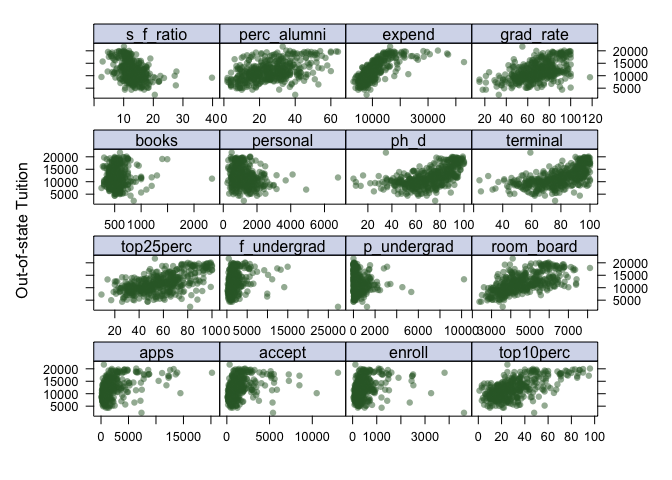
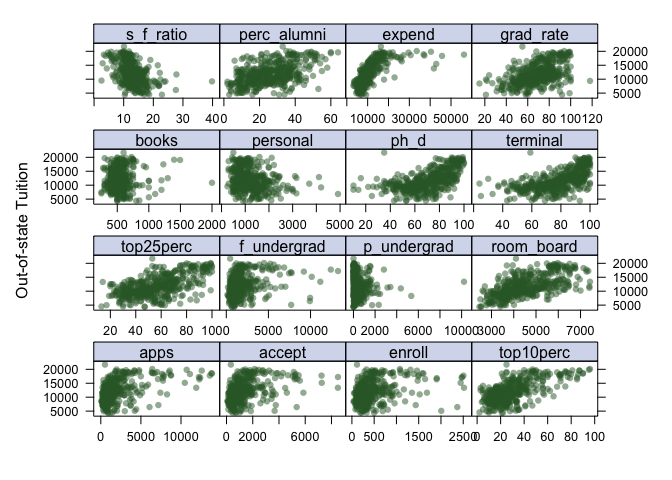
smoothing splines

diff --git a/ds2_hw2.md b/ds2_hw2.md
@@ -53,41 +53,34 @@ dim(train_df)
 summary(train_df)
 ```
 
-    ##     outstate          apps           accept          enroll      
-    ##  Min.   : 2340   Min.   :   81   Min.   :   72   Min.   :  35.0  
-    ##  1st Qu.: 9100   1st Qu.:  626   1st Qu.:  501   1st Qu.: 203.0  
-    ##  Median :11200   Median : 1109   Median :  837   Median : 321.0  
-    ##  Mean   :11807   Mean   : 1951   Mean   : 1289   Mean   : 449.6  
-    ##  3rd Qu.:13970   3rd Qu.: 2135   3rd Qu.: 1541   3rd Qu.: 509.0  
-    ##  Max.   :21700   Max.   :20192   Max.   :13007   Max.   :4615.0  
-    ##    top10perc       top25perc       f_undergrad     p_undergrad     
-    ##  Min.   : 1.00   Min.   :  9.00   Min.   :  139   Min.   :    1.0  
-    ##  1st Qu.:17.00   1st Qu.: 43.00   1st Qu.:  809   1st Qu.:   66.0  
-    ##  Median :25.00   Median : 55.00   Median : 1270   Median :  211.0  
-    ##  Mean   :29.37   Mean   : 57.02   Mean   : 1855   Mean   :  448.9  
-    ##  3rd Qu.:36.00   3rd Qu.: 70.00   3rd Qu.: 1964   3rd Qu.:  542.0  
-    ##  Max.   :96.00   Max.   :100.00   Max.   :27378   Max.   :10221.0  
-    ##    room_board       books           personal         ph_d       
-    ##  Min.   :2370   Min.   : 250.0   Min.   : 250   Min.   :  8.00  
-    ##  1st Qu.:3700   1st Qu.: 450.0   1st Qu.: 800   1st Qu.: 59.00  
-    ##  Median :4372   Median : 500.0   Median :1090   Median : 73.00  
-    ##  Mean   :4588   Mean   : 546.1   Mean   :1211   Mean   : 70.74  
-    ##  3rd Qu.:5400   3rd Qu.: 600.0   3rd Qu.:1500   3rd Qu.: 85.00  
-    ##  Max.   :8124   Max.   :2340.0   Max.   :6800   Max.   :100.00  
-    ##     terminal        s_f_ratio      perc_alumni       expend     
-    ##  Min.   : 24.00   Min.   : 2.50   Min.   : 2.0   Min.   : 3186  
-    ##  1st Qu.: 68.00   1st Qu.:11.10   1st Qu.:16.0   1st Qu.: 7495  
-    ##  Median : 80.00   Median :12.60   Median :25.0   Median : 8990  
-    ##  Mean   : 78.42   Mean   :12.86   Mean   :25.9   Mean   :10384  
-    ##  3rd Qu.: 92.00   3rd Qu.:14.40   3rd Qu.:34.0   3rd Qu.:11525  
-    ##  Max.   :100.00   Max.   :39.80   Max.   :64.0   Max.   :42926  
-    ##    grad_rate     
-    ##  Min.   : 15.00  
-    ##  1st Qu.: 58.00  
-    ##  Median : 69.00  
-    ##  Mean   : 68.62  
-    ##  3rd Qu.: 81.00  
-    ##  Max.   :118.00
+    ##     outstate          apps           accept         enroll       top10perc 
+    ##  Min.   : 4400   Min.   :   81   Min.   :  72   Min.   :  35   Min.   : 2  
+    ##  1st Qu.: 9100   1st Qu.:  608   1st Qu.: 497   1st Qu.: 204   1st Qu.:16  
+    ##  Median :11200   Median : 1107   Median : 849   Median : 324   Median :25  
+    ##  Mean   :11830   Mean   : 1941   Mean   :1271   Mean   : 443   Mean   :29  
+    ##  3rd Qu.:13970   3rd Qu.: 2153   3rd Qu.:1553   3rd Qu.: 509   3rd Qu.:36  
+    ##  Max.   :21700   Max.   :13865   Max.   :8498   Max.   :2517   Max.   :96  
+    ##    top25perc      f_undergrad     p_undergrad        room_board  
+    ##  Min.   : 13.0   Min.   :  139   Min.   :    1.0   Min.   :2460  
+    ##  1st Qu.: 42.0   1st Qu.:  846   1st Qu.:   63.0   1st Qu.:3710  
+    ##  Median : 55.0   Median : 1241   Median :  211.0   Median :4400  
+    ##  Mean   : 56.5   Mean   : 1821   Mean   :  428.7   Mean   :4567  
+    ##  3rd Qu.: 69.0   3rd Qu.: 1988   3rd Qu.:  526.0   3rd Qu.:5400  
+    ##  Max.   :100.0   Max.   :13259   Max.   :10221.0   Max.   :7425  
+    ##      books           personal         ph_d           terminal     
+    ##  Min.   : 250.0   Min.   : 250   Min.   : 10.00   Min.   : 24.00  
+    ##  1st Qu.: 450.0   1st Qu.: 800   1st Qu.: 60.00   1st Qu.: 68.00  
+    ##  Median : 500.0   Median :1100   Median : 73.00   Median : 80.00  
+    ##  Mean   : 543.4   Mean   :1221   Mean   : 70.74   Mean   : 78.26  
+    ##  3rd Qu.: 600.0   3rd Qu.:1500   3rd Qu.: 85.00   3rd Qu.: 92.00  
+    ##  Max.   :2000.0   Max.   :4913   Max.   :100.00   Max.   :100.00  
+    ##    s_f_ratio      perc_alumni        expend        grad_rate     
+    ##  Min.   : 2.50   Min.   : 2.00   Min.   : 3186   Min.   : 15.00  
+    ##  1st Qu.:11.10   1st Qu.:16.00   1st Qu.: 7356   1st Qu.: 58.00  
+    ##  Median :12.70   Median :25.00   Median : 8953   Median : 69.00  
+    ##  Mean   :12.93   Mean   :25.83   Mean   :10590   Mean   : 68.67  
+    ##  3rd Qu.:14.50   3rd Qu.:34.00   3rd Qu.:11677   3rd Qu.: 81.00  
+    ##  Max.   :39.80   Max.   :64.00   Max.   :56233   Max.   :118.00
 
 ``` r
 skimr::skim(train_df)
@@ -110,23 +103,23 @@ Data summary
 
 | skim_variable | n_missing | complete_rate |     mean |      sd |     p0 |    p25 |     p50 |     p75 |    p100 | hist  |
 |:--------------|----------:|--------------:|---------:|--------:|-------:|-------:|--------:|--------:|--------:|:------|
-| outstate      |         0 |             1 | 11807.10 | 3693.06 | 2340.0 | 9100.0 | 11200.0 | 13970.0 | 21700.0 | ▁▆▇▃▂ |
-| apps          |         0 |             1 |  1951.45 | 2485.30 |   81.0 |  626.0 |  1109.0 |  2135.0 | 20192.0 | ▇▁▁▁▁ |
-| accept        |         0 |             1 |  1289.30 | 1419.08 |   72.0 |  501.0 |   837.0 |  1541.0 | 13007.0 | ▇▁▁▁▁ |
-| enroll        |         0 |             1 |   449.55 |  471.76 |   35.0 |  203.0 |   321.0 |   509.0 |  4615.0 | ▇▁▁▁▁ |
-| top10perc     |         0 |             1 |    29.37 |   17.95 |    1.0 |   17.0 |    25.0 |    36.0 |    96.0 | ▇▇▃▁▁ |
-| top25perc     |         0 |             1 |    57.02 |   19.64 |    9.0 |   43.0 |    55.0 |    70.0 |   100.0 | ▁▆▇▆▃ |
-| f_undergrad   |         0 |             1 |  1854.64 | 2214.61 |  139.0 |  809.0 |  1270.0 |  1964.0 | 27378.0 | ▇▁▁▁▁ |
-| p_undergrad   |         0 |             1 |   448.94 |  756.33 |    1.0 |   66.0 |   211.0 |   542.0 | 10221.0 | ▇▁▁▁▁ |
-| room_board    |         0 |             1 |  4587.81 | 1102.11 | 2370.0 | 3700.0 |  4372.0 |  5400.0 |  8124.0 | ▃▇▅▃▁ |
-| books         |         0 |             1 |   546.11 |  171.71 |  250.0 |  450.0 |   500.0 |   600.0 |  2340.0 | ▇▁▁▁▁ |
-| personal      |         0 |             1 |  1211.32 |  639.95 |  250.0 |  800.0 |  1090.0 |  1500.0 |  6800.0 | ▇▂▁▁▁ |
-| ph_d          |         0 |             1 |    70.74 |   17.78 |    8.0 |   59.0 |    73.0 |    85.0 |   100.0 | ▁▁▆▇▇ |
-| terminal      |         0 |             1 |    78.42 |   15.66 |   24.0 |   68.0 |    80.0 |    92.0 |   100.0 | ▁▁▃▆▇ |
-| s_f\_ratio    |         0 |             1 |    12.86 |    3.47 |    2.5 |   11.1 |    12.6 |    14.4 |    39.8 | ▁▇▁▁▁ |
-| perc_alumni   |         0 |             1 |    25.90 |   12.53 |    2.0 |   16.0 |    25.0 |    34.0 |    64.0 | ▅▇▇▂▁ |
-| expend        |         0 |             1 | 10383.65 | 5017.64 | 3186.0 | 7495.0 |  8990.0 | 11525.0 | 42926.0 | ▇▂▁▁▁ |
-| grad_rate     |         0 |             1 |    68.62 |   16.91 |   15.0 |   58.0 |    69.0 |    81.0 |   118.0 | ▁▃▇▆▁ |
+| outstate      |         0 |             1 | 11829.55 | 3725.90 | 4400.0 | 9100.0 | 11200.0 | 13970.0 | 21700.0 | ▃▇▆▃▂ |
+| apps          |         0 |             1 |  1941.43 | 2335.76 |   81.0 |  608.0 |  1107.0 |  2153.0 | 13865.0 | ▇▁▁▁▁ |
+| accept        |         0 |             1 |  1270.72 | 1247.65 |   72.0 |  497.0 |   849.0 |  1553.0 |  8498.0 | ▇▂▁▁▁ |
+| enroll        |         0 |             1 |   443.02 |  400.73 |   35.0 |  204.0 |   324.0 |   509.0 |  2517.0 | ▇▂▁▁▁ |
+| top10perc     |         0 |             1 |    29.00 |   17.97 |    2.0 |   16.0 |    25.0 |    36.0 |    96.0 | ▇▇▃▁▁ |
+| top25perc     |         0 |             1 |    56.50 |   19.66 |   13.0 |   42.0 |    55.0 |    69.0 |   100.0 | ▂▆▇▅▃ |
+| f_undergrad   |         0 |             1 |  1821.20 | 1756.47 |  139.0 |  846.0 |  1241.0 |  1988.0 | 13259.0 | ▇▁▁▁▁ |
+| p_undergrad   |         0 |             1 |   428.73 |  739.30 |    1.0 |   63.0 |   211.0 |   526.0 | 10221.0 | ▇▁▁▁▁ |
+| room_board    |         0 |             1 |  4566.72 | 1089.86 | 2460.0 | 3710.0 |  4400.0 |  5400.0 |  7425.0 | ▃▇▅▃▁ |
+| books         |         0 |             1 |   543.41 |  165.01 |  250.0 |  450.0 |   500.0 |   600.0 |  2000.0 | ▇▂▁▁▁ |
+| personal      |         0 |             1 |  1220.52 |  608.20 |  250.0 |  800.0 |  1100.0 |  1500.0 |  4913.0 | ▇▅▁▁▁ |
+| ph_d          |         0 |             1 |    70.74 |   17.54 |   10.0 |   60.0 |    73.0 |    85.0 |   100.0 | ▁▂▅▇▆ |
+| terminal      |         0 |             1 |    78.26 |   15.77 |   24.0 |   68.0 |    80.0 |    92.0 |   100.0 | ▁▂▃▆▇ |
+| s_f\_ratio    |         0 |             1 |    12.93 |    3.59 |    2.5 |   11.1 |    12.7 |    14.5 |    39.8 | ▂▇▁▁▁ |
+| perc_alumni   |         0 |             1 |    25.83 |   12.31 |    2.0 |   16.0 |    25.0 |    34.0 |    64.0 | ▅▇▇▂▁ |
+| expend        |         0 |             1 | 10589.60 | 5987.11 | 3186.0 | 7356.0 |  8953.0 | 11677.0 | 56233.0 | ▇▂▁▁▁ |
+| grad_rate     |         0 |             1 |    68.67 |   16.52 |   15.0 |   58.0 |    69.0 |    81.0 |   118.0 | ▁▅▇▆▁ |
 
 There are 453 rows and 17 columns in training data, all the variables
 are numeric.
@@ -169,10 +162,10 @@ fit_ss = smooth.spline(x = train_df$terminal, y = train_df$outstate)
 fit_ss$df
 ```
 
-    ## [1] 4.244528
+    ## [1] 4.390602
 
 The optimal degree of freedom obtained by default cross validation is
-4.245.
+4.391.
 
 Use this **optimal degree of freedom** to make following predictions:
 
@@ -236,11 +229,11 @@ ss_func = function(df) {
                                    y = train_df$outstate,
                                    df = df)
   
-  pred_ss_fun = predict(fit_ss_fun, x = terminal_grid)
+  pred_ss_fun = predict(fit_ss_fun, x = test_df$terminal)
   
   
   pred_ss_df_fun = data.frame(predicted = pred_ss_fun$y,
-                         terminal = terminal_grid,
+                         terminal = test_df$terminal,
                          df = df)
   
 }
@@ -261,3 +254,20 @@ for (x in df_list) {
 output_ss_df = do.call("rbind", output_ss) %>% 
   as.data.frame()
 ```
+
+``` r
+# plot results for a range of df
+p + 
+  geom_line(aes(x = terminal, y = predicted, group = df, color = df), data = output_ss_df) + 
+  geom_line(aes(x = terminal, y = predicted), data = pred_ss_test_df, color = rgb(.8, .1, .1, 1))
+```
+
+![](ds2_hw2_files/figure-gfm/unnamed-chunk-8-1.png)<!-- -->
+
+The above plot shows the fitted smoothing spline models using a range of
+degree of freedoms. The lines wiggle around the red line, which is the
+model using the optimum degree of freedom.  
+As the degree of freedom approaching to 2, the line gets more linear; as
+the degree of freedom approaching to 15, the line gets more wiggled.  
+Among all the fitted lines within the (2, 15) degree of freedom range,
+df = 4.391 should be the nearest to the red line.
